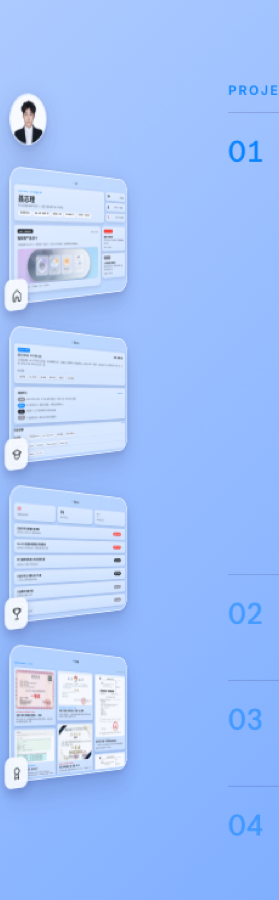
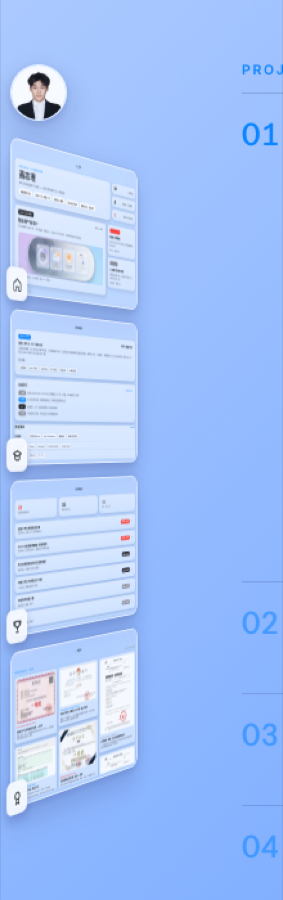
feat(strip): shared vanishing point fan + retract animation + slower reflow
1. Shape — the column now converges on ONE vanishing point at the canvas
   centre instead of every card being warped identically. Each card's quad is
   derived from its slot: the top card's top edge drops (+28/+13), the middle is
   nearly flat (+12/-3), the bottom card's edges rise (-20/-35). TAPER 0.84 -> 0.88
   because the tilt read as too steep against the hand-drawn boundary.
2. Motion — the outgoing page now visibly shrinks back into its own card (220ms,
   fading out at 65%) instead of just fading. The incoming flight layer holds at
   the clicked card for 100ms so the retract is not immediately covered, then
   expands over 400ms.
3. Reflow — slot animation 260ms -> 420ms, and it now interpolates between the
   old and new quad (a card's shape changes as it moves through the fan).

Slot geometry is computed, not measured (AVATAR_H/CARD_H/GAP/VPY/VIS_W/TAPER),
so it stays in sync with render and needs no DOM reads.

diff --git a/src/components/StageStrip.vue b/src/components/StageStrip.vue
@@ -1,5 +1,5 @@
 <script setup>
-import { ref, provide, onBeforeUpdate, onUpdated } from 'vue'
+import { ref, computed, watch, nextTick, provide } from 'vue'
 import { navItems, profile } from '../data/content.js'
 import { siteData } from '../store/siteData.js'
 import { STAGE_PREVIEW } from '../lib/stageContext.js'
@@ -29,31 +29,49 @@ const root = ref(null)
 const STAGE_W = 1104
 const STAGE_H = 768
 const CARD_W = 175 // = --stage-card-w，改令牌时这里要同步
-const CARD_H = 122 // = --stage-card-h
 const frameStyle = {
   width: STAGE_W + 'px',
   height: STAGE_H + 'px',
   transform: `scale(${CARD_W / STAGE_W})`
 }
 
-// ---------- 不规则四边形 ----------
-// rotateY 只能做出「上下边对称收敛」的等腰梯形；真实台前调度的窗口是斜着看的，
-// 上边下压得多、下边收得少，四条边都不平行 —— 那是一个任意四边形。
-// 任意四边形用 4 点单应矩阵（matrix3d）表达：把卡片矩形映射到目标四点。
-const QUAD = {
-  w: 99,        // 视觉宽度
-  h: 119,       // 左缘高度（近边，最高）
-  topDrop: 38,  // 右上角相对左上角下压多少（上边的斜率，明显大于下边）
-  riseBtm: 6,   // 右下角相对左下角上收多少（下边的斜率，几乎持平）
-  skew: 3       // 左右两边的横向倾斜：让竖边也不平行
+// ---------- 窗口条几何：所有卡片朝同一个灭点收拢 ----------
+// 截图里最上面那张的「上边」往下压、最下面那张的「下边」往上抬，说明它们共享一个
+// 灭点（竖直方向位于条的中心）。所以每张卡的四角由它的**槽位**决定：
+//   左缘不动（最近），右缘按 TAPER 缩向灭点；右缘中点 = 灭点 + (左缘中点 - 灭点) * TAPER
+// 这样整列窗就像贴在一个朝右后方退去的平面上。
+const AVATAR_H = 44
+const CARD_H = 122
+const GAP = 12
+const VPY = 400      // 画布竖直中心（= 灭点高度）
+const VIS_W = 99     // 视觉宽度（透视后）
+const TAPER = 0.88   // 右缘 / 左缘（0.84 时倾斜偏大，按手绘边界收到 0.88）
+
+// 每个槽位的 canvas y（条本身垂直居中）
+function slotTops(order) {
+  const hs = order.map(k => (k === 'avatar' ? AVATAR_H : CARD_H))
+  const total = hs.reduce((a, b) => a + b, 0) + GAP * Math.max(0, order.length - 1)
+  let y = VPY - total / 2
+  const out = {}
+  order.forEach((k, i) => {
+    out[k] = y
+    y += hs[i] + GAP
+  })
+  return out
 }
-// 左上 / 右上 / 右下 / 左下
-const quadPoints = [
-  [0, 0],
-  [QUAD.w, QUAD.topDrop],
-  [QUAD.w - QUAD.skew, QUAD.topDrop + (QUAD.h - QUAD.topDrop - QUAD.riseBtm)],
-  [QUAD.skew, QUAD.h]
-]
+
+// 某个槽位上的卡片四角（相对卡片左上角）
+function quadFor(top) {
+  const cL = top + CARD_H / 2
+  const cR = VPY + (cL - VPY) * TAPER
+  const hR = CARD_H * TAPER
+  return [
+    [0, 0],
+    [VIS_W, cR - hR / 2 - top],
+    [VIS_W, cR + hR / 2 - top],
+    [0, CARD_H]
+  ]
+}
 
 // 把 w×h 的矩形映射到任意四边形（四点单应），返回 matrix3d
 function quadMatrix(w, h, [p0, p1, p2, p3]) {
@@ -84,7 +102,15 @@ function quadMatrix(w, h, [p0, p1, p2, p3]) {
   return `matrix3d(${A},${D},0,${G}, ${B},${E},0,${H}, 0,0,1,0, ${C},${F},0,1)`
 }
 
-const slotTransform = quadMatrix(CARD_W, CARD_H, quadPoints)
+const quads = computed(() => {
+  const tops = slotTops(props.order)
+  const out = {}
+  for (const key of props.order) {
+    if (key === 'avatar') continue
+    out[key] = quadMatrix(CARD_W, CARD_H, quadFor(tops[key]))
+  }
+  return out
+})
 
 // 缩略图里的页面只当画面，不挂键盘/滚轮监听
 provide(STAGE_PREVIEW, true)
@@ -101,42 +127,35 @@ const labelOf = key => key === 'avatar'
   ? '个人资料'
   : (navItems.find(n => n.key === key)?.label || key)
 
-// ---------- 槽位重排：前后对比 top 差值，用 WAAPI 补一段位移 ----------
-let prevTops = {}
-function tops() {
-  const m = {}
-  if (!root.value) return m
-  root.value.querySelectorAll('[data-key]').forEach(el => {
-    m[el.dataset.key] = el.getBoundingClientRect().top
+// ---------- 槽位重排：旧的槽位 → 新的槽位 ----------
+// 卡片移动时四边形本身也会变（越靠近灭点越扁），所以关键帧里要从「旧四边形」补到「新四边形」。
+const REFLOW_MS = 420
+const REFLOW_EASE = 'cubic-bezier(.32,.72,0,1)'
+
+async function reflow(prevOrder) {
+  const before = slotTops(prevOrder)
+  const beforeQuads = {}
+  for (const k of prevOrder) if (k !== 'avatar') beforeQuads[k] = quadFor(before[k])
+  await nextTick()
+  const after = slotTops(props.order)
+  root.value?.querySelectorAll('[data-key]').forEach(el => {
+    const key = el.dataset.key
+    if (before[key] == null) return
+    const dy = before[key] - after[key]
+    if (Math.abs(dy) < 0.5) return
+    const to = key === 'avatar' ? 'translateY(0px)' : quads.value[key]
+    const from = key === 'avatar'
+      ? `translateY(${dy}px)`
+      : `translateY(${dy}px) ${quadMatrix(CARD_W, CARD_H, beforeQuads[key])}`
+    el.animate([{ transform: from }, { transform: to }], {
+      duration: REFLOW_MS,
+      easing: REFLOW_EASE
+    })
   })
-  return m
-}
-// canvas 可能被缩放，位移量要换算回未缩放坐标
-function canvasScale() {
-  const c = document.querySelector('.canvas-root')
-  if (!c) return 1
-  return c.getBoundingClientRect().width / 1280 || 1
 }
 
-onBeforeUpdate(() => { prevTops = tops() })
-onUpdated(() => {
-  if (!root.value) return
-  const k = canvasScale()
-  root.value.querySelectorAll('[data-key]').forEach(el => {
-    const before = prevTops[el.dataset.key]
-    if (before == null) return
-    const delta = (before - el.getBoundingClientRect().top) / k
-    if (Math.abs(delta) < 1) return
-    // 关键帧必须带上卡片自己的四边形矩阵，否则补位动画期间卡片会被拍平
-    const base = el.dataset.key === 'avatar' ? '' : slotTransform
-    el.animate(
-      [
-        { transform: `translateY(${delta}px) ${base}`.trim() },
-        { transform: `translateY(0px) ${base}`.trim() }
-      ],
-      { duration: 260, easing: 'cubic-bezier(.32,.72,0,1)' }
-    )
-  })
+watch(() => props.order.slice(), (next, prev) => {
+  if (prev && prev.length) reflow(prev)
 })
 
 function pick(key) {
@@ -155,7 +174,7 @@ defineExpose({ root })
       class="slot"
       :class="[key === 'avatar' ? 'slot-avatar' : 'slot-win', { hidden: key === hiddenKey }]"
       :data-key="key"
-      :style="key === 'avatar' ? null : { transform: slotTransform }"
+      :style="key === 'avatar' ? null : { transform: quads[key] }"
       role="button"
       tabindex="0"
       :aria-label="`打开${labelOf(key)}`"

diff --git a/src/App.vue b/src/App.vue
@@ -80,6 +80,8 @@ const SLOW = import.meta.env.DEV ? Math.max(1, Math.min(8, Number(new URLSearchP
 let closingOverlays = false
 
 const DUR_OUT = 80
+const DUR_BACK = 220   // 旧窗口收回槽位的时间
+const GHOST_HOLD = 100 // 飞行窗在卡片位置停一下，留给旧窗口收回
 const DUR_IN = 400
 
 // 把元素矩形换算到「未缩放」的画布坐标（canvas-root 有 scale）
@@ -113,6 +115,7 @@ async function switchTo(key) {
   closingOverlays = false
 
   const main = canvasRect(mainEl.value)
+  const outgoing = route.value
   // 被点那张卡的位置：必须在条重排前量（重排后它就不在条里了）
   const cardEl = stripRef.value?.root?.querySelector(`[data-key="${key}"]`)
   const cardRect = cardEl ? canvasRect(cardEl) : null
@@ -122,14 +125,30 @@ async function switchTo(key) {
   incoming.value = key
   await nextTick()
 
-  // 旧窗口：80ms 内淡出。
-  // 为什么不「缩回槽位」：两层页面都是透明玻璃，只要重叠就会被看穿、糊成一片，
-  // 而新窗口是 ease-out（前段长得极快），旧页必须在它铺开之前就消失。
+  // 旧窗口：缩回它自己的槽位（mac 的「收回」动作），同时淡出。
+  // 两层页面都是透明玻璃，重叠会互相穿透，所以透明度在 60% 处就归零 ——
+  // 能看见「收回去」的过程，又不会糊成一片。
+  const oldSlot = stripRef.value?.root?.querySelector(`[data-key="${outgoing}"]`)
+  const oldRect = oldSlot ? canvasRect(oldSlot) : null
   if (mainEl.value) {
-    mainEl.value.animate(
-      [{ opacity: 1 }, { opacity: 0 }],
-      { duration: DUR_OUT * SLOW, easing: 'cubic-bezier(.4, 0, .2, 1)', fill: 'forwards' }
-    )
+    if (oldRect) {
+      const to = frameTransform(oldRect, main)
+      mainEl.value.animate(
+        [
+          { transform: 'translate(0px, 0px) scale(1, 1)', borderRadius: '0px', opacity: 1 },
+          { transform: to.transform, borderRadius: `${to.radius}px`, opacity: 0.9, offset: 0.2 },
+          { transform: to.transform, borderRadius: `${to.radius}px`, opacity: 0, offset: 0.65 },
+          { transform: to.transform, borderRadius: `${to.radius}px`, opacity: 0 }
+        ],
+        { duration: DUR_BACK * SLOW, easing: 'cubic-bezier(.4, 0, 1, 1)', fill: 'forwards' }
+      )
+    } else {
+      mainEl.value.animate([{ opacity: 1 }, { opacity: 0 }], {
+        duration: 200 * SLOW,
+        easing: 'cubic-bezier(.4, 0, 1, 1)',
+        fill: 'forwards'
+      })
+    }
   }
 
   // 新窗口：就是被点的那张卡，从卡片矩形长到满屏
@@ -137,16 +156,19 @@ async function switchTo(key) {
     const from = frameTransform(cardRect, main)
     // 头像窗的卡是正圆：起点用 50% 才会是圆（用 px 会被 44px 盒子限制成圆角方块）
     const startRadius = key === 'avatar' ? '50%' : `${from.radius}px`
+    const HOLD_AT = GHOST_HOLD / (DUR_IN + GHOST_HOLD)
+    // 前 16% 原地停一下：这段时间留给旧窗口「收回」，否则新窗一铺开就把它盖住了
     ghostEl.value.animate(
       [
-        { transform: from.transform, borderRadius: startRadius },
-        { transform: 'translate(0px, 0px) scale(1, 1)', borderRadius: '0px' }
+        { transform: from.transform, borderRadius: startRadius, offset: 0, easing: 'linear' },
+        { transform: from.transform, borderRadius: startRadius, offset: HOLD_AT, easing: 'cubic-bezier(.25, .46, .45, .94)' },
+        { transform: 'translate(0px, 0px) scale(1, 1)', borderRadius: '0px', offset: 1 }
       ],
-      { duration: DUR_IN * SLOW, easing: 'cubic-bezier(.25, .46, .45, .94)', fill: 'forwards' }
+      { duration: (DUR_IN + GHOST_HOLD) * SLOW, fill: 'forwards' }
     )
   }
 
-  await wait(DUR_IN * SLOW)
+  await wait((DUR_IN + GHOST_HOLD) * SLOW)
 
   // 同一帧内：撤掉旧舞台的动画残留 → 换页 → 移除飞出层，视觉上无缝衔接
   mainEl.value?.getAnimations().forEach(a => a.cancel())

diff --git a/PRD.md b/PRD.md
@@ -119,14 +119,14 @@
 - **缩略图是真实页面**：每张卡内按主区原始尺寸 `1104×768` 渲染**真实页面组件**（含顶栏），再整体 `scale(0.1196)` 缩到卡片 —— 版式、玻璃层、图片位置与舞台完全一致。缩略图内 `inert` + `pointer-events:none`，并通过 `provide(STAGE_PREVIEW)` 让页面实例**跳过全局键盘/滚轮监听**（否则一次方向键会被舞台与缩略图各响应一次）。
 - **主页也占一张卡**：这是「回首页」的唯一入口。曾经把主页当"桌面"不占位，结果进入子页后无路可回（用户实测反馈）。
 - **槽位规格**：页面卡 `175×122`（175/122 = 1.4344 ≈ 主区 1104/768，FLIP 才不畸变，`design-tokens` 里注明了原因，勿改成 16:10）；头像窗 `44×44` 正圆；间距 12px；圆角 9px；条贴左缘 `left:8px`、垂直居中、无底板。
-- **不规则四边形（不是等腰梯形）**：`rotateY` 只能给出「上下边对称收敛」的等腰梯形，四条边里左右两条必然平行。真实台前调度是斜着看窗口，上下边斜率不同、竖边也不平行 —— 那是一个**任意四边形**。所以卡片改用**四点单应矩阵**（`quadMatrix()` → `matrix3d`，`transform-origin: 0 0`）把 175×122 的矩形直接映射到目标四点。
-  - 目标四角（实测）：左上 `(0,0)`、右上 `(99,38)`、右下 `(96,111)`、左下 `(3,119)` —— 上边下压 38px、下边几乎持平（只上收 6px）、左右竖边各内倾 3px，右缘 76px ≈ 左缘 116px 的 0.65。
-  - 结果：四条边两两都不平行，形似一张斜着看的纸，而不是"对称的梯形框"。
-  - 槽位补位动画必须把这张矩阵一起写进关键帧（`translateY(d) matrix3d(...)`），否则动画期间卡片会被拍平成矩形。
-  - 头像卡不参与投影（保持正圆）。
-  - 副作用：卡片 bbox 只有 ~98×117，FLIP 仍按实测 bbox 起飞。
+- **共享灭点的扇面（不规则四边形）**：`rotateY` 只给出等腰梯形（左右边必然平行、上下收敛量必然相等）。真实台前调度里整列窗口是**朝同一个灭点退去**的，所以最上面那张的上边往下压、最下面那张的下边往上抬 —— 每张卡的四角由它的**槽位**决定：
+  - 左缘不动（最近）；右缘按 `TAPER` 缩向灭点，右缘中点 = `VP + (左缘中点 - VP) * TAPER`；灭点位于画布竖直中心 `(·, 400)`。
+  - 实测（`TAPER = 0.88`、视觉宽 99px）：最上面那张上边斜率 +28 / 下边 +13，中间那张 +12 / −3，最下面那张 −20 / −35 —— 整列像贴在一个向右后方退去的平面上。
+  - 用四点单应（`quadMatrix()` → `matrix3d`，`transform-origin: 0 0`）精确落位，四条边互不平行。
+  - 槽位几何在 `StageStrip.vue` 里是硬算的（`AVATAR_H / CARD_H / GAP / VPY / VIS_W / TAPER`），改 `design-tokens` 的卡片尺寸要同步这几个常量。
+  - 补位动画（`REFLOW_MS = 420ms`）的关键帧要从「旧四边形」补到「新四边形」，否则动画期间卡片会被拍平。头像卡不参与投影（保持正圆）。
 - **材质**：`rgba(255,255,255,.38)` 白纱 + `1px rgba(255,255,255,.72)` 细边 + 双层投影，静止 `opacity:.92`（hover → 1），左下角挂 26px 页面图标（`left/bottom:-6` 凸出）。顶栏在缩略图里用 `bare` 模式（只留页名与圆点）。
-- **切换动画（卡片飞出 + 放大）**：点卡片后——① 条立即重排（被点的卡消失、旧页卡滑回槽位）；② 一个「飞行层」以**被点卡片的实测矩形**为起点，`400ms` 长到满屏（`cubic-bezier(.25,.46,.45,.94)`），采用真实页面内容，因此看起来就是卡片自己滑出来放大；③ 旧页在 `80ms` 内淡出（两层都是透明玻璃，重叠会互相穿透发糊，所以旧页必须在新窗铺开前消失）；④ 到位后同一帧内换页并移除飞行层。
+- **切换动画（旧窗收回 + 新窗飞出）**：点卡片后——① 条立即重排（被点的卡消失、旧页卡滑回槽位，420ms）；② **旧页缩回它自己的槽位**（220ms，透明度在 65% 处归零）；③ 一个「飞行层」以被点卡片的实测矩形为起点，先在原地停 100ms（把这段时间让给旧页收回，否则新窗一铺开就把它盖住），再用 400ms 长到满屏（`cubic-bezier(.25,.46,.45,.94)`）；④ 到位后同一帧内换页并移除飞行层。
 - **边框与换算**：飞行层用 `transform-origin: 0 0`（默认 center 会让落点整体偏移半个宽度）；圆角按 `14 / min(sx, sy)` 反算（元素坐标系的圆角会被缩放到视觉 14px），头像目标例外——用 `50%` 起步，否则 44px 的盒子会把圆形限制成圆角方块。
 - 飞行期间主区 `inert`、条 `pointer-events:none`；收尾必须断开动画并清空内联样式。
 - 个人资料窗是有内容的窗口：点开后可 `←/→` 在 `photoLibrary` 里切换照片。

diff --git a/README.md b/README.md
@@ -25,7 +25,8 @@ npm run build    # production build into dist/
 - **Thumbnails are the real pages**, not mock bars: each card renders the actual view component at the main area's native `1104×768` and scales it down by `132/1104 ≈ 0.1196`. Thumbnails are `inert` + `pointer-events:none`, and `provide(STAGE_PREVIEW)` makes those page instances skip global keyboard/wheel listeners so one arrow key isn't handled twice.
 - Home has a card like every other page — it is the only way back to the home page (treating it as a borderless "desktop" left users stranded once they opened a sub-page).
 - Switching: the clicked card itself flies out. A "flight layer" renders the target page and animates from the card's measured rect to full stage in 400ms, while the old page fades out in 80ms (two translucent pages overlapping would bleed through each other). On landing, the route is swapped and the flight layer removed in the same frame, so it is seamless.
-- Cards are 175×122 in layout but mapped onto an **arbitrary quadrilateral** with a 4-point homography (`quadMatrix()` → `matrix3d`, `transform-origin: 0 0`). `rotateY` can only produce a symmetric trapezoid (left/right edges stay parallel); Stage Manager shows the window at an angle, where the top edge drops far more than the bottom edge lifts and the vertical edges are not parallel either. Target corners: `(0,0) (99,38) (96,111) (3,119)`.
+- Cards are 175×122 in layout but mapped onto an **arbitrary quadrilateral** with a 4-point homography (`quadMatrix()` → `matrix3d`, `transform-origin: 0 0`). The whole column shares one vanishing point at the canvas centre (`VPY = 400`): each card's quad is derived from its **slot**, so the top card's top edge drops while the bottom card's bottom edge lifts — the column looks like it lies on a plane receding backwards. `TAPER = 0.88` (right edge / left edge); the slot geometry constants live next to it and must track `design-tokens`.
+- Switching runs both halves of the Stage Manager gesture: the outgoing page shrinks back into its own card (220ms) while the incoming flight layer holds at the clicked card for 100ms and then expands over 400ms. The reflow of the remaining cards takes 420ms.
 - The strip's reflow animation must repeat that matrix in its keyframes, otherwise the cards flatten into rectangles mid-animation. The avatar card is never warped (stays a circle). FLIP still measures the real bounding box, and the avatar target starts at `border-radius: 50%` so the circle isn't clamped into a rounded square.
 - Top bar's `内容管理` blue pill opens the passcode modal; passcode `051014` auto-verifies on the 6th digit; `发布更新` returns to home.
 - **Data persistence**: all CMS edits are saved to `localStorage` (key `portfolio-cms-data-v4`); `SEED_REV` in `siteData.js` 控制一次性的增量播种（新增条目合并进旧存档，不覆盖用户上传的材料） and survive refresh; every view reads live from the store; `发布更新` stamps the `最近更新` date in the top bar; 恢复默认 resets to the `content.js` defaults.
